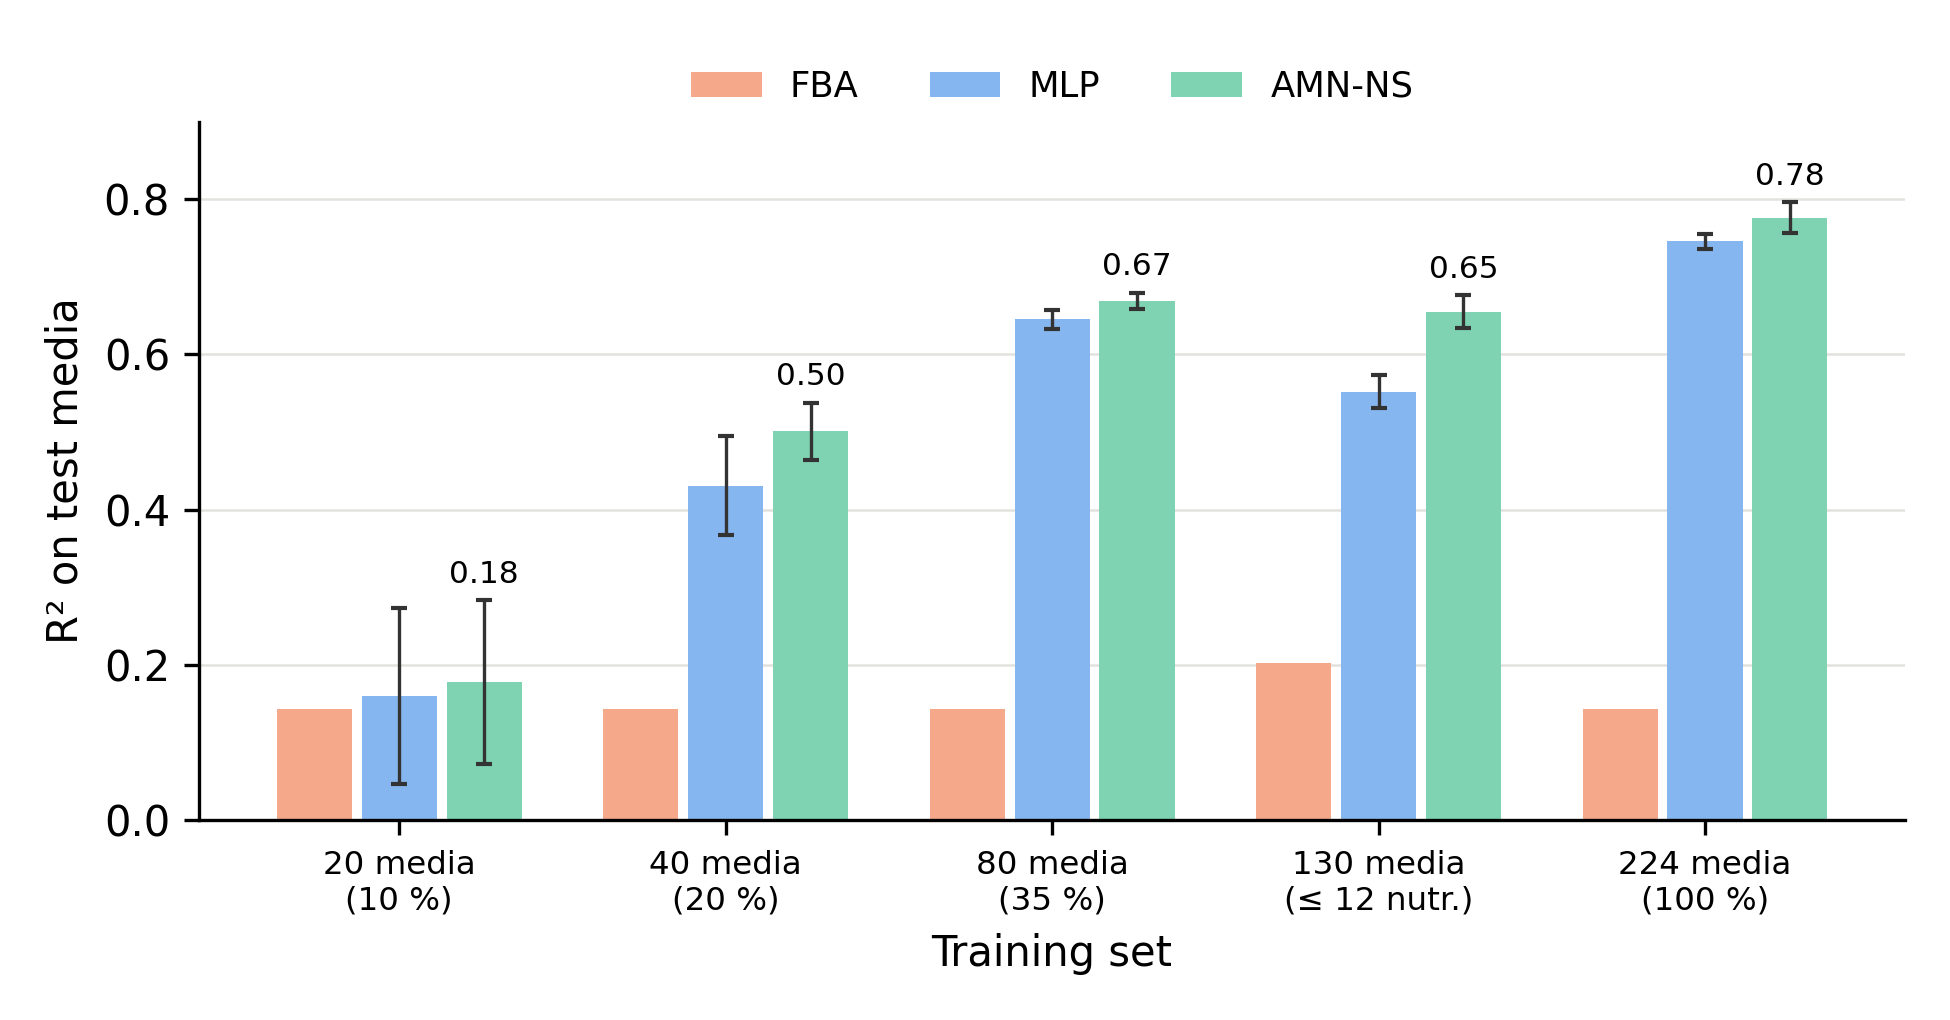
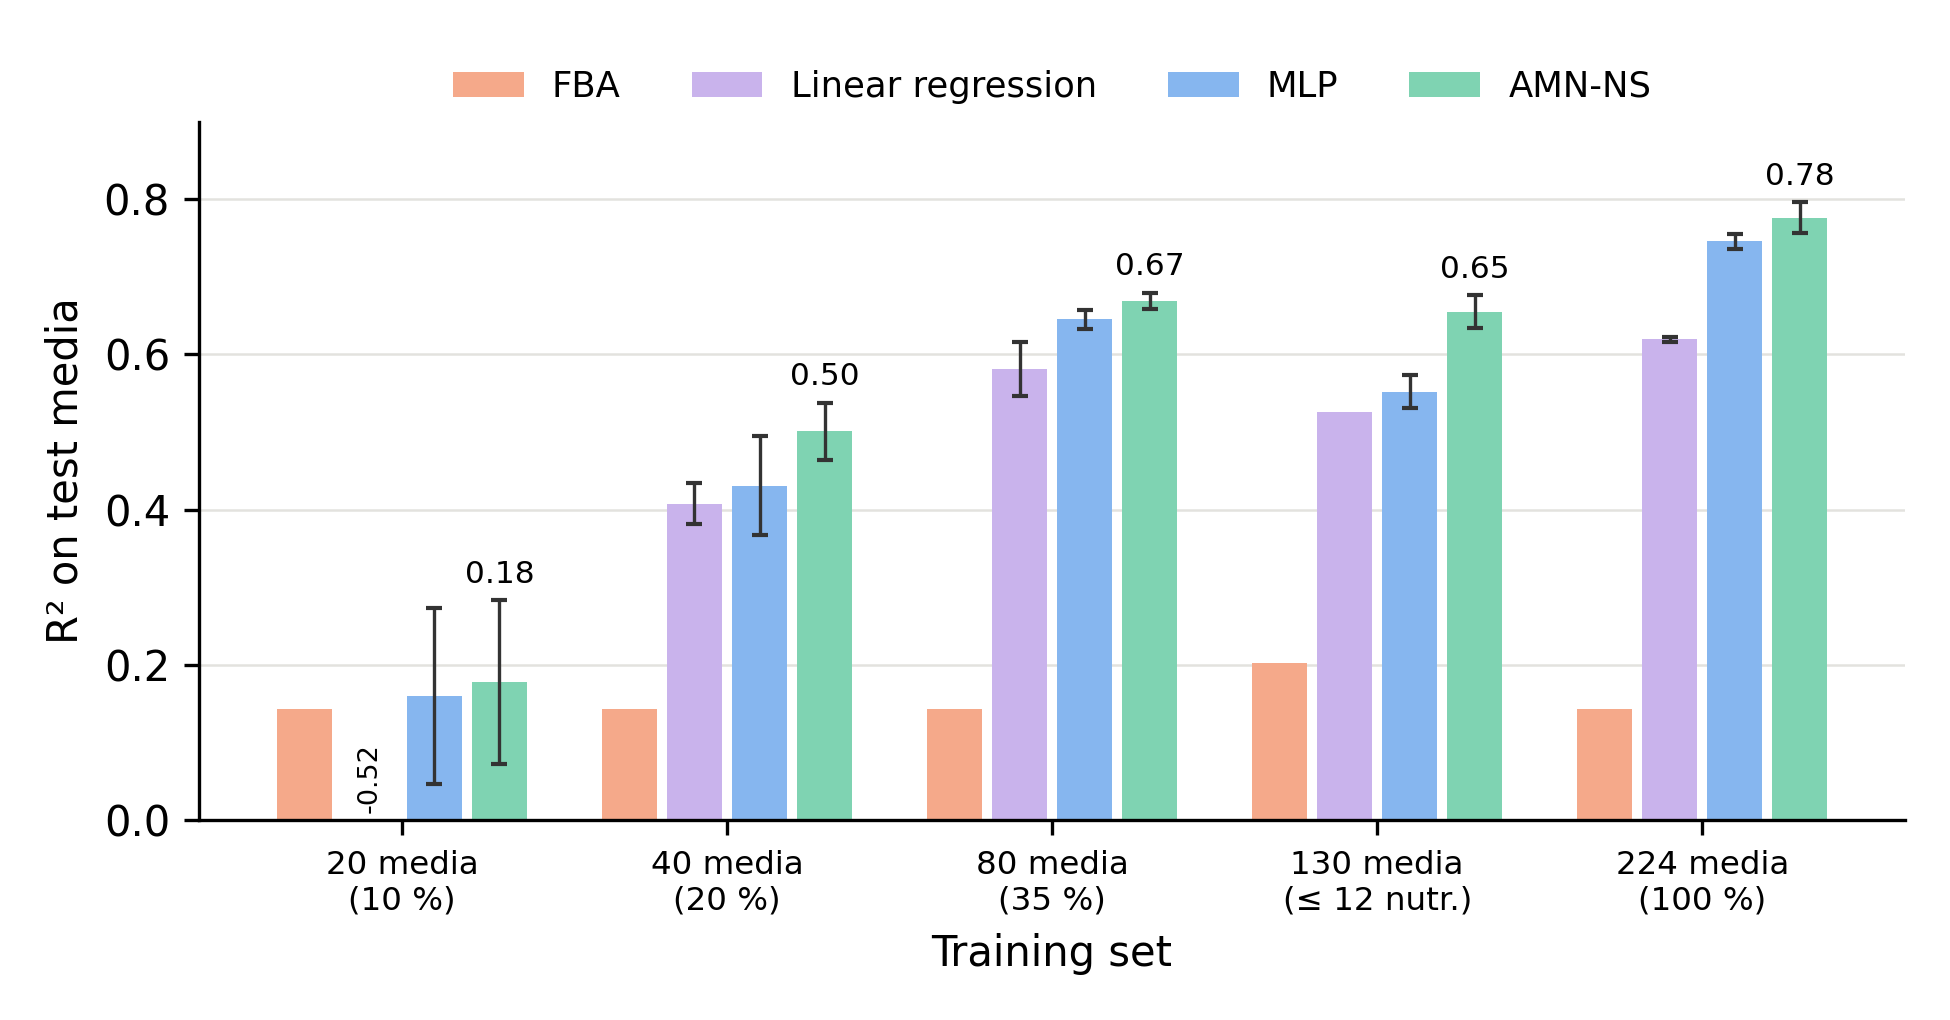
Summary chart: add linear regression (light purple) on the same splits; README low-data table gets a linear-regression column

diff --git a/plot_r2_summary.py b/plot_r2_summary.py
@@ -1,6 +1,7 @@
 #!/usr/bin/env python
 """
-Summary bar chart: R² on test media of FBA, MLP and AMN-NS for the low-data
+Summary bar chart: R² on test media of FBA, linear regression, MLP and
+AMN-NS for the low-data
 learning curve (20, 40, 80 training media), the simple-to-complex split
 (130 training media with <= 12 variable nutrients) and random 5-fold CV
 (224 training media).
@@ -11,11 +12,15 @@ Reads the prediction files written by amn_nullspace.py and fba_lambda.py:
     results/extrap/pred_random_nslin_s*.csv
     results/optim/pred_A_mlp_s*.csv                  (MLP, random CV)
     results/fba_lambda/fba_growth_by_lambda.csv
+Linear regression (ordinary least squares on the presence vector) is fitted
+here, on the same splits as amn_nullspace.py (seeds 1-3).
 R² is collated per seed (one R² over all test predictions of a run); bars
 are the mean over seeds and error bars the sd. FBA has no training and no
 seed: on random CV and the learning curve (whose test folds together cover
 all 280 media) it is the published protocol (best lambda over all media),
-on the complex split lambda is chosen on the 130 training media.
+on the complex split lambda is chosen on the 130 training media. The
+complex split does not depend on the seed, so linear regression has no sd
+there.
 
 Writes results/summary/r2_summary.csv and r2_summary.png.
 
@@ -30,6 +35,8 @@ import matplotlib.pyplot as plt
 import numpy as np
 import pandas as pd
 from pathlib import Path
+from sklearn.linear_model import LinearRegression
+from sklearn.model_selection import KFold
 
 R = Path('results')
 OUT = R / 'summary'
@@ -59,6 +66,28 @@ train = np.setdiff1d(np.arange(len(y)), test)
 lam = max(G, key=lambda c: r2(y[train], G[c].values[train]))
 fba_le12 = r2(y[test], G[lam].values[test])
 
+# linear regression on the splits of amn_nullspace.py
+D = np.load('Dataset_input/Ecoli/iML1515EXP.npz')
+X, Yd = D['X'], D['Y'][:, 0]
+
+
+def ols(n_train, seed):
+    """Collated R² of OLS for one test (n_train as in `tests`) and one seed."""
+    if n_train == 130:
+        tr, te = X.sum(1) <= 12, X.sum(1) > 12
+        return r2(Yd[te], LinearRegression().fit(X[tr], Yd[tr]).predict(X[te]))
+    folds = list(KFold(5, shuffle=True, random_state=seed).split(X))
+    if n_train < 224:  # same draws, in the same order, as amn_nullspace.py --split lowdata
+        rng = np.random.default_rng(seed)
+        sub = {(m, k): np.sort(rng.choice(tr, m, replace=False))
+               for m in (20, 40, 80) for k, (tr, te) in enumerate(folds)}
+        folds = [(sub[n_train, k], te) for k, (tr, te) in enumerate(folds)]
+    p = np.zeros(len(Yd))
+    for tr, te in folds:
+        p[te] = LinearRegression().fit(X[tr], Yd[tr]).predict(X[te])
+    return r2(Yd, p)
+
+
 tests = [  # label, n training media, MLP pattern, AMN-NS pattern, fold prefix, FBA
     ('20 media\n(10 %)', 20, 'extrap/pred_lowdata_mlp_s*.csv', 'extrap/pred_lowdata_nslin_s*.csv', 'n20_', fba_all),
     ('40 media\n(20 %)', 40, 'extrap/pred_lowdata_mlp_s*.csv', 'extrap/pred_lowdata_nslin_s*.csv', 'n40_', fba_all),
@@ -70,6 +99,9 @@ rows = []
 for label, n, mlp, ns, fold, fba in tests:
     test_name = label.split('\n')[0]
     rows.append(dict(test=test_name, n_train=n, model='FBA', r2_mean=fba, r2_sd=np.nan, n_seeds=0))
+    v = np.array([ols(n, s) for s in (1, 2, 3)]) if n != 130 else np.array([ols(n, 1)])
+    rows.append(dict(test=test_name, n_train=n, model='Linear regression', r2_mean=v.mean(),
+                     r2_sd=v.std(ddof=1) if len(v) > 1 else np.nan, n_seeds=len(v) if len(v) > 1 else 0))
     for model, pattern in (('MLP', mlp), ('AMN-NS', ns)):
         v = seeds(pattern, fold)
         rows.append(dict(test=test_name, n_train=n, model=model, r2_mean=v.mean(),
@@ -79,17 +111,20 @@ OUT.mkdir(parents=True, exist_ok=True)
 df.round(4).to_csv(OUT / 'r2_summary.csv', index=False)
 print(df.round(3).to_string(index=False))
 
-colors = {'FBA': '#F5A98A', 'MLP': '#86B6EF', 'AMN-NS': '#7FD3B2'}
+colors = {'FBA': '#F5A98A', 'Linear regression': '#C9B3EC', 'MLP': '#86B6EF', 'AMN-NS': '#7FD3B2'}
 fig, ax = plt.subplots(figsize=(6.5, 3.4), dpi=300)
 x = np.arange(len(tests))
-w = 0.26
+w = 0.2
 for k, model in enumerate(colors):
     d = df[df.model == model]
-    pos = x + (k - 1) * w
-    ax.bar(pos, d.r2_mean, w - 0.03, color=colors[model], label=model, zorder=2)
-    if model != 'FBA':
-        ax.errorbar(pos, d.r2_mean, yerr=d.r2_sd, fmt='none', ecolor='#333333',
-                    elinewidth=0.8, capsize=2, zorder=3)
+    pos = x + (k - 1.5) * w
+    ax.bar(pos, d.r2_mean.clip(lower=0), w - 0.03, color=colors[model], label=model, zorder=2)
+    pos_ok = d.r2_mean.values > 0  # a negative R² is written at the baseline instead of drawn
+    if d.r2_sd.notna().any():
+        ax.errorbar(pos[pos_ok], d.r2_mean[pos_ok], yerr=d.r2_sd[pos_ok], fmt='none',
+                    ecolor='#333333', elinewidth=0.8, capsize=2, zorder=3)
+    for p, m in zip(pos[~pos_ok], d.r2_mean[~pos_ok]):
+        ax.text(p, 0.01, f'{m:.2f}', ha='center', va='bottom', rotation=90, fontsize=6.5)
     if model == 'AMN-NS':
         for p, m, s in zip(pos, d.r2_mean, d.r2_sd):
             ax.text(p, m + s + 0.015, f'{m:.2f}', ha='center', va='bottom', fontsize=7.5)
@@ -101,7 +136,7 @@ ax.yaxis.grid(True, color='#e3e2de', linewidth=0.6, zorder=0)
 ax.set_axisbelow(True)
 for s in ('top', 'right'):
     ax.spines[s].set_visible(False)
-ax.legend(frameon=False, ncol=3, loc='upper center', bbox_to_anchor=(0.5, 1.12), fontsize=8.5)
+ax.legend(frameon=False, ncol=4, loc='upper center', bbox_to_anchor=(0.5, 1.12), fontsize=8.5)
 fig.tight_layout()
 fig.savefig(OUT / 'r2_summary.png')
 print(f'wrote {OUT}/r2_summary.csv and r2_summary.png')

diff --git a/README.md b/README.md
@@ -247,11 +247,11 @@ test medium resembles a training medium in size.
 n media drawn from each training fold (AMN-NS epochs scaled so that every n
 gets the same number of gradient steps).
 
-| n training media | MLP | **AMN-NS** |
-|---|---|---|
-| 20 | 0.160 ± 0.114 | **0.178 ± 0.105** |
-| 40 | 0.431 ± 0.064 | **0.501 ± 0.037** |
-| 80 | 0.645 ± 0.013 | **0.669 ± 0.010** |
+| n training media | Linear regression | MLP | **AMN-NS** |
+|---|---|---|---|
+| 20 | −0.525 ± 0.609 | 0.160 ± 0.114 | **0.178 ± 0.105** |
+| 40 | 0.408 ± 0.026 | 0.431 ± 0.064 | **0.501 ± 0.037** |
+| 80 | 0.581 ± 0.035 | 0.645 ± 0.013 | **0.669 ± 0.010** |
 
 AMN-NS is the best model on interpolation, when extrapolating to richer
 media (with ≥ 130 training media) and when data are scarce (≥ 40 media). Linear regression alone does not extrapolate
@@ -261,9 +261,11 @@ stoichiometry and medium-dependent bounds produce the nonlinear growth
 response.
 
 Summary of the three tests (`plot_r2_summary.py`; error bars: sd over
-seeds; FBA has no training and no seed):
+seeds; FBA has no training and no seed, and linear regression has no seed
+dependence on the complex split; the negative R² of linear regression with
+20 media, fewer media than inputs, is written at the baseline):
 
-![R² of FBA, MLP and AMN-NS on test media](results/summary/r2_summary.png)
+![R² of FBA, linear regression, MLP and AMN-NS on test media](results/summary/r2_summary.png)
 
 *Tuning.* Nested selection inside each training fold (`--tune`; grid
 β ∈ {0.03, 0.1, 0.3} × u ∈ {5, 6.5, 10} × {100, 200} epochs, seed 1,
@@ -307,7 +309,7 @@ python amn_nullspace.py --model ns --split random --tag ns_tune --plateau --tune
 python amn_nullspace.py --model mlp --split random --tag mlp_random
 # FBA with the published protocol (uptake bound lambda for every compound present)
 python fba_lambda.py
-# summary table and bar chart (FBA, MLP, AMN-NS) from the prediction files
+# summary table and bar chart (FBA, linear regression, MLP, AMN-NS)
 python plot_r2_summary.py
 # another organism or dataset (GEM <path/name>.xml + training set <path/name>.npz)
 python amn_nullspace.py --model ns --split random --tag my_ns --plateau --epochs 100 \
@@ -326,7 +328,7 @@ model and the FBA growth rates are cached in `results/nullspace/`.
 | `ablation_sv.py` | AMN with constraint-loss weight λ ∈ {0, 1, 100, 1000}; reports R² and ‖SV‖ |
 | `amn_nullspace.py` | AMN-NS and baselines (MLP, FBA): random 5-fold CV, simple-to-complex and low-data splits, nested tuning (`--tune`) |
 | `fba_lambda.py` | FBA baseline of [1]: scan of the uptake bound λ, best and cross-validated R² |
-| `plot_r2_summary.py` | R² of FBA, MLP and AMN-NS on the learning curve, the ≤ 12-nutrient complex split and random CV: `results/summary/r2_summary.csv` and `r2_summary.png` |
+| `plot_r2_summary.py` | R² of FBA, linear regression, MLP and AMN-NS on the learning curve, the ≤ 12-nutrient complex split and random CV: `results/summary/r2_summary.csv` and `r2_summary.png` |
 
 ### 5.4 References
 
